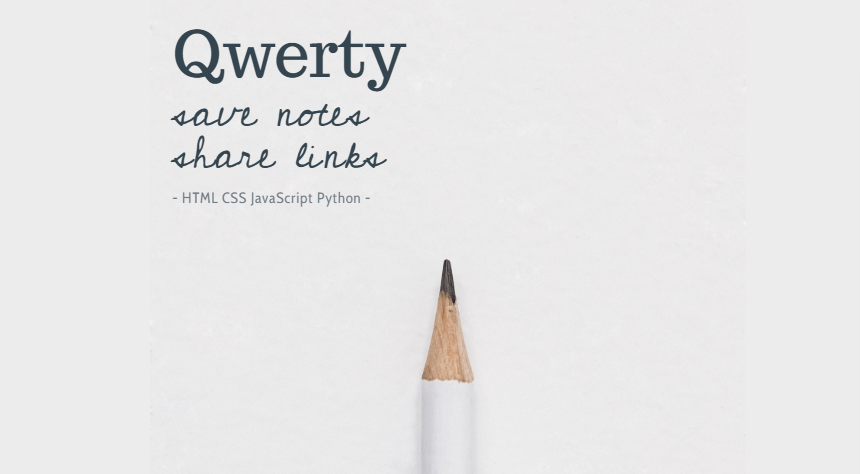
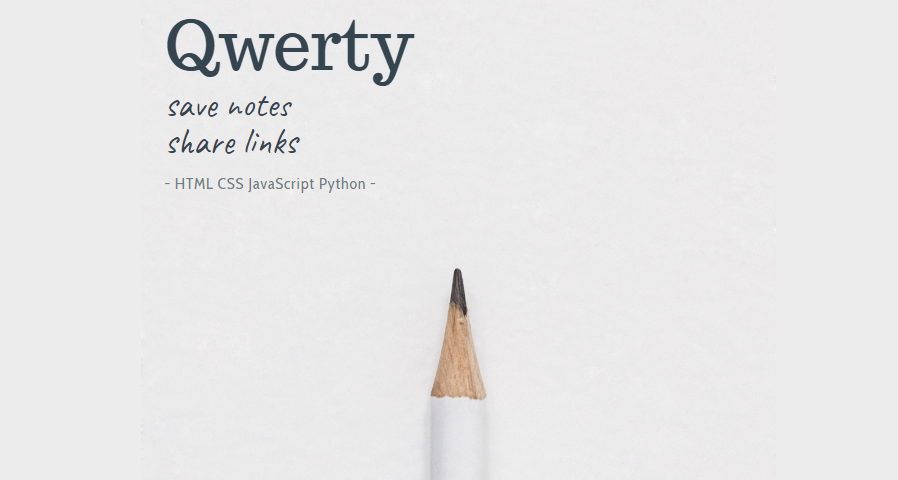
Change nav tagline font to improve readability.

Changed region(s): [[0.1814, 0.2068, 0.4535, 0.443], [0.1814, 0.0295, 0.4837, 0.2068], [0.4535, 0.5316, 0.5744, 0.8565]]

diff --git a/static/css/main.css b/static/css/main.css
@@ -1,9 +1,11 @@
-@import url('https://fonts.googleapis.com/css?family=Cabin+Condensed|Cedarville+Cursive|Trocchi&display=swap');
+@import url('https://fonts.googleapis.com/css?family=Cabin+Condensed|Caveat|Trocchi&display=swap');
+
 
 .hide-start {
     display: none;
-  }
-  /*WHY: Used to prevent first load flicker experienced when jQuery hide() used to hide elements at start.*/
+}
+
+/*WHY: Used to prevent first load flicker experienced when jQuery hide() used to hide elements at start.*/
 
 /*----------FONTS----------*/
 
@@ -27,8 +29,8 @@ p {
 /*WHY: Color included to prevent dark mode dark class overwriting.*/
 
 .tagline {
-    font-size: 1.75rem;
-    font-family: 'Cedarville Cursive', cursive;
+    font-size: 2rem;
+    font-family: 'Caveat', cursive;
     line-height: .6;
     color: #354550;
 }
@@ -67,9 +69,9 @@ h3 {
     color: #fe5e51;
 }
 
-.error--validate{
+.error--validate {
     font-size: 1rem;
-    color: #fe5e51; 
+    color: #fe5e51;
 }
 
 /*WHAT: Formatting for negative Flask Messages.*/
@@ -110,11 +112,11 @@ a:hover {
 }
 
 nav {
-    font-size: 1.7rem;
+    font-size: 2rem;
 }
 
 nav a {
-    font-family: 'Cedarville Cursive', cursive;
+    font-family: 'Caveat', cursive;
 }
 
 #pick--notes,
@@ -284,7 +286,7 @@ ul:not(.type-radio),
     }
 
     .tagline {
-        font-size: 2.5rem;
+        font-size: 2rem;
     }
 
     h1,
@@ -311,7 +313,7 @@ ul:not(.type-radio),
     }
 
     .tagline {
-        font-size: 3rem;
+        font-size: 2.25rem;
     }
 
     h1,
@@ -328,7 +330,7 @@ ul:not(.type-radio),
     }
 
     nav {
-        font-size: 2rem;
+        font-size: 2.25rem;
     }
 }
 
